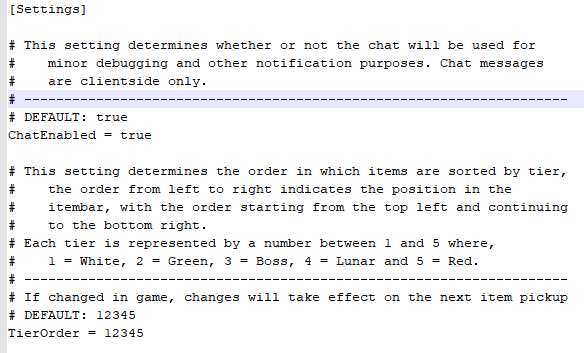
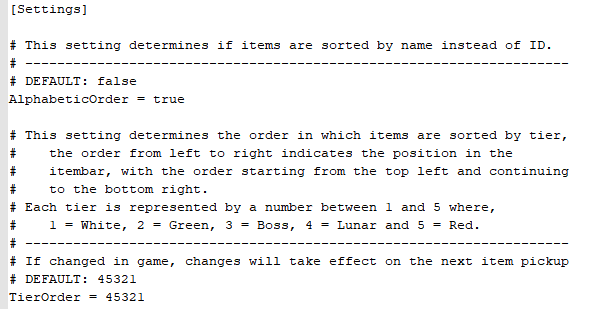
Version 2.1.0, changed default settings, added option for alphabetic order, cleaned up error messages

Changed region(s): [[0.0, 0.1165, 0.9863, 0.9903], [0.0, 0.0, 0.1541, 0.0583]]

diff --git a/OrderedItems/OrderedItems.cs b/OrderedItems/OrderedItems.cs
@@ -2,6 +2,7 @@
 using RoR2;
 using System.Collections.Generic;
 using System.Reflection;
+using System;
 using UnityEngine;
 
 namespace OrderedItems
@@ -15,13 +16,16 @@ namespace OrderedItems
         // Mod metadata.
         public const string MODGUID = "com.gog909.ordereditems";
         public const string MODNAME = "Ordered Items";
-        public const string MODVER = "2.0.0";
+        public const string MODVER = "2.1.0";
         public const string Dependancy = MODGUID;
+
+        public bool isRunActive;
 
 
         // Initialises mod at the beginning of the game.
         public void Awake()
         {
+
             // Initialises other classes.
             Reflection.Init();
             LogHandler.Init(this.Logger);
@@ -30,7 +34,8 @@ namespace OrderedItems
             // Injects inventory hook.
             On.RoR2.UI.ItemInventoryDisplay.OnInventoryChanged += this.InventoryHook;
 
-            LogHandler.Log("Ordered Items is enabled.");
+
+            LogHandler.Log("Ordered Items is enabled.", false);
         }
 
 
@@ -83,11 +88,10 @@ namespace OrderedItems
 
             for (int i = 0; i < itemStacks.Length; i++)
             {
-                ItemIndex itemIndex = (ItemIndex)i;
                 if (itemStacks[i] > 0)
                 {
                     ItemIndex index = (ItemIndex)i;
-                    switch (ItemCatalog.GetItemDef(itemIndex).tier)
+                    switch (ItemCatalog.GetItemDef(index).tier)
                     {
                         case ItemTier.Tier1:
                             listWhite.Add(index);
@@ -111,7 +115,6 @@ namespace OrderedItems
                 }
             }
 
-            // Orders items by tier using config file.
             var tierList = new List<ItemIndex>[]
             {
                     listWhite,
@@ -121,6 +124,16 @@ namespace OrderedItems
                     listRed
             };
 
+            // Organizes items in each tier alphabetically, determined in config file.
+            if (ConfigHandler.alphabeticOrder)
+            {
+                foreach (List<ItemIndex> list in tierList)
+                {
+                    list.Sort(new ItemNameComparer());
+                }
+            }
+
+            // Orders items by tier using config file.
             List<ItemIndex> itemOrder = new List<ItemIndex>();
 
             for (int i = 0; i < 5; i++)
@@ -135,33 +148,51 @@ namespace OrderedItems
         }
     }
 
+    // Comparer for alphabetic order.
+    public class ItemNameComparer : IComparer<ItemIndex>
+    {
+        public int Compare(ItemIndex a, ItemIndex b)
+        {
+            string aName = Language.GetString(ItemCatalog.GetItemDef(a).nameToken);
+            string bName = Language.GetString(ItemCatalog.GetItemDef(b).nameToken);
+            if (aName == null || bName == null)
+            {
+                return 0;
+            }
 
-    // Handles the mods configuration file.
+            return aName.CompareTo(bName);
+        }
+    }
+
+
+    // Handles the mod's configuration file.
     public static class ConfigHandler
     {
         public static BepInEx.Configuration.ConfigFile Config;
 
-        public static BepInEx.Configuration.ConfigWrapper<bool> chatEnabledWrapper;
-        public static bool chatEnabled;
+        public static BepInEx.Configuration.ConfigWrapper<bool> alphabeticOrderWrapper;
+        public static bool alphabeticOrder;
 
         public static BepInEx.Configuration.ConfigWrapper<string> tierOrderWrapper;
+        public static int[] tierOrderDefault = new int[5] { 3, 4, 2, 1, 0 };
+        public static int[] tierOrderLast;
         public static int[] tierOrder = new int[5];
+
+        public static bool isFirstWarning = true;
 
 
         public static void Init(BepInEx.Configuration.ConfigFile configSource)
         {
             ConfigHandler.Config = configSource;
 
-            ConfigHandler.chatEnabledWrapper = ConfigHandler.Config.Wrap
+            ConfigHandler.alphabeticOrderWrapper = ConfigHandler.Config.Wrap
             (
                 "Settings",
-                "ChatEnabled",
-                "This setting determines whether or not the chat will be used for\n" +
-                "   minor debugging and other notification purposes. Chat messages\n" +
-                "   are clientside only.\n" +
+                "AlphabeticOrder",
+                "This setting determines if items are sorted by name instead of ID.\n" +
                 "--------------------------------------------------------------------\n" +
-                "DEFAULT: true",
-                true
+                "DEFAULT: false",
+                false
             );
 
             ConfigHandler.tierOrderWrapper = ConfigHandler.Config.Wrap
@@ -176,9 +207,15 @@ namespace OrderedItems
                 "   1 = White, 2 = Green, 3 = Boss, 4 = Lunar and 5 = Red.\n" +
                 "--------------------------------------------------------------------\n" +
                 "If changed in game, changes will take effect on the next item pickup\n" +
-                "DEFAULT: 12345",
-                "12345"
+                "DEFAULT: 45321",
+                "45321"
             );
+
+            // Reminder every time a game starts to change config if broken.
+            RoR2.Run.onRunStartGlobal += (Run run) =>
+            {
+                ConfigHandler.tierOrderLast = null;
+            };
 
             ConfigHandler.Config.Save();
             ConfigHandler.UpdateConfig();
@@ -189,64 +226,112 @@ namespace OrderedItems
         public static void UpdateConfig()
         {
             ConfigHandler.Config.Reload();
-            ConfigHandler.chatEnabled = ConfigHandler.chatEnabledWrapper.Value;
-            ConfigHandler.handleTierOrderConfig();
+
+            ConfigHandler.alphabeticOrder = ConfigHandler.alphabeticOrderWrapper.Value;
+
+            ConfigHandler.HandleTierOrderConfig();
+        }
+
+
+        // Resets the TierOrder value to default
+        public static void DefaultTierOrderConfig()
+        {
+
+            // Handle warning on startup and during game.
+            if (ConfigHandler.tierOrderLast != ConfigHandler.tierOrder)
+            {
+                ConfigHandler.tierOrderLast = ConfigHandler.tierOrder;
+                if (ConfigHandler.isFirstWarning)
+                {
+                    ConfigHandler.isFirstWarning = false;
+                    LogHandler.Log("TierOrder configuration is invalid, currently using default settings.", false, BepInEx.Logging.LogLevel.Warning);
+                }
+                else
+                {
+                    LogHandler.Log("TierOrder configuration is invalid, currently using default settings.", true, BepInEx.Logging.LogLevel.Warning);
+                }
+            }
+
+            // Default the tierOrder value.
+            if (ConfigHandler.tierOrder != ConfigHandler.tierOrderDefault)
+            {
+                ConfigHandler.tierOrderDefault.CopyTo(ConfigHandler.tierOrder, 0);
+            }
         }
 
 
         // Manages converting the TierOrder value from a string to an integer array.
-        public static void handleTierOrderConfig()
+        public static void HandleTierOrderConfig()
         {
             string TierOrderValue = ConfigHandler.tierOrderWrapper.Value;
 
-            var count = 0;
-            foreach (char chr in TierOrderValue.ToCharArray())
+            if (TierOrderValue.Length < 5 | TierOrderValue.Length > 5)
             {
-                var i = (int)chr - 49;
-                if (0 <= i && i <= 4)
+                ConfigHandler.DefaultTierOrderConfig();
+            }
+            else
+            {
+                var count = 0;
+                foreach (char chr in TierOrderValue.ToCharArray())
                 {
-                    ConfigHandler.tierOrder[count] = i;
-                    count += 1;
-                }
-                else
-                {
-                    // The configuration is invalid.
-                    LogHandler.Log("TierOrder configuration is invalid, currently using default settings.", BepInEx.Logging.LogLevel.Warning);
-                    for (int j = 0; j < ConfigHandler.tierOrder.Length; j++)
+                    var i = (int)chr - 49;
+                    if (0 <= i && i <= 4)
                     {
-                        ConfigHandler.tierOrder[j] = j;
+                        ConfigHandler.tierOrder[count] = i;
+                        count += 1;
                     }
-                    break;
+                    else
+                    {
+                        ConfigHandler.DefaultTierOrderConfig();
+                        break;
+                    }
                 }
             }
         }
     }
 
 
+    // Handles the mod's logging.
     public static class LogHandler
     {
         public static BepInEx.Logging.ManualLogSource Logger;
 
         public static string prefix;
 
+        public static Color32[] Colors = new Color32[]
+        {
+            new Color32(111, 10, 170, 255),
+            new Color32(14, 83, 167, 255),
+            new Color32(0, 155, 149, 255),
+            new Color32(255, 113, 0, 255),
+            new Color32(255, 40, 0, 255)
+        };
+
+
         public static void Init(BepInEx.Logging.ManualLogSource loggerSource)
         {
             LogHandler.Logger = loggerSource;
+            LogHandler.GeneratePrefix();
         }
 
-        public static void Log(string message, BepInEx.Logging.LogLevel priority = BepInEx.Logging.LogLevel.Debug)
-        {
-            if (ConfigHandler.chatEnabled)
+
+        public static void Log(string message, bool chat, BepInEx.Logging.LogLevel priority = BepInEx.Logging.LogLevel.Debug)
+        { 
+            if (chat)
             {
+                LogHandler.GeneratePrefix();
                 Chat.AddMessage(LogHandler.prefix + message);
             }
             LogHandler.Logger.Log(priority, message);
         }
 
+
         public static void GeneratePrefix()
         {
-            LogHandler.prefix = ("[" + OrderedItems.MODNAME + " v" + OrderedItems.MODVER + "]: ").Coloured(RoR2.ColorCatalog.GetColor(RoR2.ColorCatalog.ColorIndex.Tier3Item));
+            LogHandler.prefix = ("[" + OrderedItems.MODNAME + " v" + OrderedItems.MODVER + "]: ")
+                .Coloured(LogHandler.Colors[UnityEngine.Random.Range(0, LogHandler.Colors.Length)]);
         }
+
 
         public static string Coloured(this string message, Color32 color)
         {
@@ -255,7 +340,6 @@ namespace OrderedItems
             return result;
         }
     }
-
 
     // Cached reflection fields and types.
     public static class Reflection
@@ -275,7 +359,6 @@ namespace OrderedItems
             Reflection.cachedItemOrderField = cachedItemInventoryDisplayType.GetField("itemOrder", BindingFlags.Instance | BindingFlags.Public | BindingFlags.NonPublic);
             Reflection.cachedItemStacksField = cachedItemInventoryDisplayType.GetField("itemStacks", BindingFlags.Instance | BindingFlags.Public | BindingFlags.NonPublic);
             Reflection.cachedRequestDisplayUpdateMethod = cachedItemInventoryDisplayType.GetMethod("RequestUpdateDisplay", BindingFlags.Instance | BindingFlags.Public | BindingFlags.NonPublic);
-
         }
 }
 }

diff --git a/README.md b/README.md
@@ -1,12 +1,13 @@
 # OrderedItems
 #### by gog909
 
-Risk of Rain 2 Mod.
+A Risk of Rain 2 mod.
 ___
 
 ## What is Ordered Items
 Ordered Items is a completely clientside quality of life mod. It organizes the items in the item bar by their in game ID and their Tier. This removes the cluttered and unintuitive system implemented by the game, where the items are placed in the order that they are aqcuired. The Tier ordering can be modified in the configuration file. In addition, the mod does not affect anyone without it installed and does not require you to be host or any other players to have the mod installed for it to work.
 
+![gameplay](https://raw.githubusercontent.com/gog909/Ordered-Items/master/images/gameplay.PNG)
 
 ### Install
 Navigate to your Risk of Rain 2 directory. Put the `OrderedItems` folder in `BepInEx/plugins`,the `OrderedItems.dll` file should be located at `BepInEx/plugins/OrderedItems/OrderedItems.dll`. The same effect can be achieved with a mod manager.
@@ -17,13 +18,23 @@ Navigate to your Risk of Rain 2 directory. Remove the `OrderedItems` folder from
 
 
 ## Configuration File
-![config](https://i.imgur.com/VvgNzRq.png "Configuration file")
+If any problems occur immediately after updating versions, try deleting the configuration file and starting the game again. The configuration file is automatically generated by the mod.
+It is located at `BepInEx/config/com.gog909.ordereditems.cfg`
+
+![config](https://raw.githubusercontent.com/gog909/Ordered-Items/master/images/configuration.PNG)
 
 
 ### Version Log
 
 ```
-Version 2.1.0: Changed misleading description, updated information page and added configuration for chat debugging.
+Version 2.1.0: Removed ChatEnabled configuration and added option for alphabetical ordering,
+               cleaned up error messages for incorrect configuration. Also changed default
+               tier order from white to red to lunar to white.
+
+Version 2.0.2: Fixed incorrect version numbers and broken image link.
+
+Version 2.0.1: Changed misleading description, updated information page and added 
+               configuration for chatdebugging.
 
 Version 2.0.0: Now Hooks UI update instead of modifying inventories, completely clientside.
                Configuration file now updates whenever an item is picked up, allowing config
